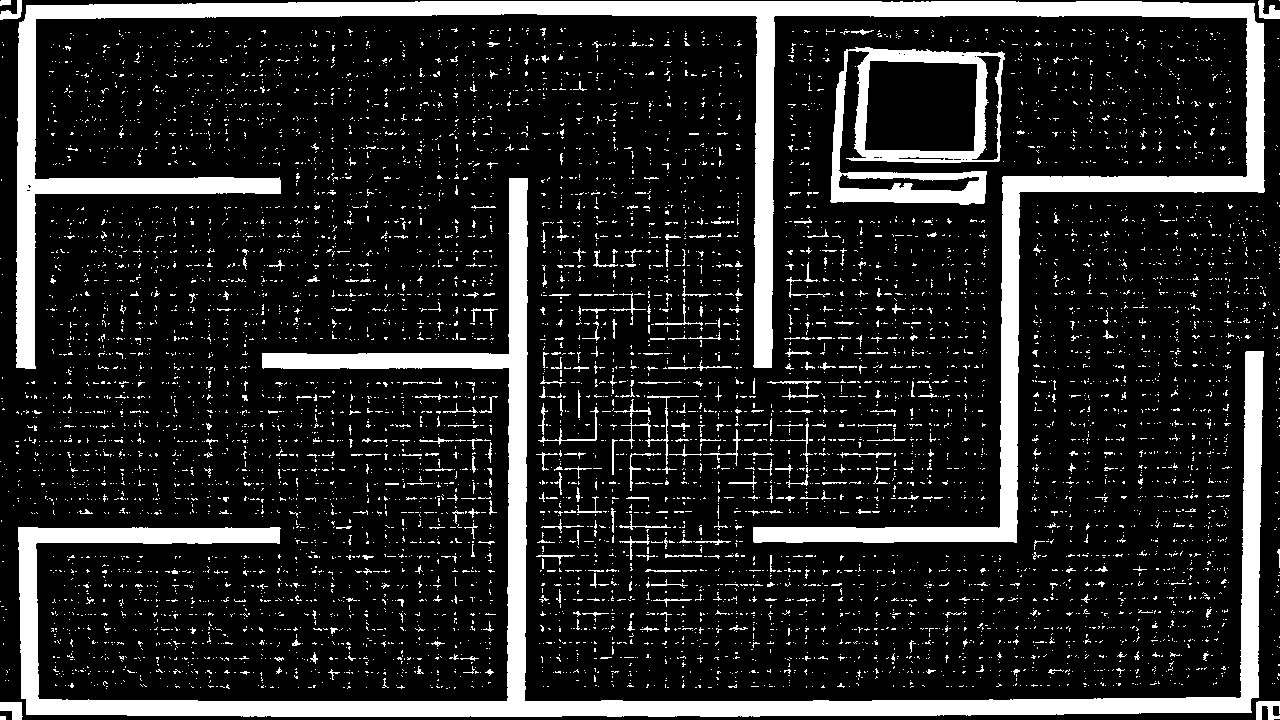
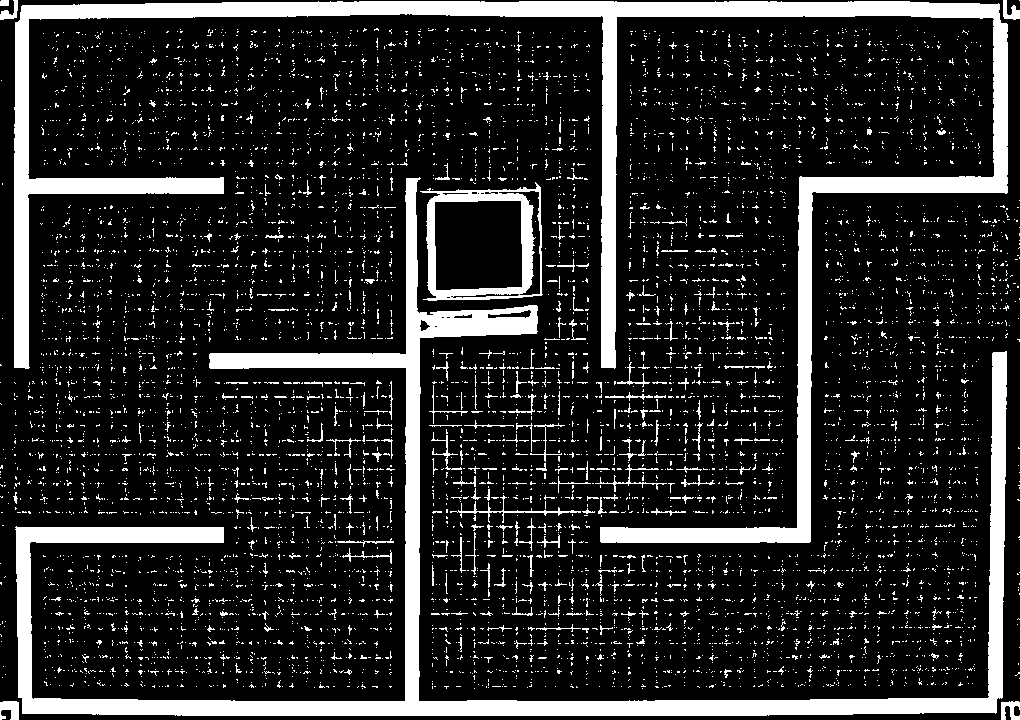
General update

diff --git a/vision/vision_utils.py b/vision/vision_utils.py
@@ -159,5 +159,5 @@ def calibrate_corners(cam):
 
 # Do adaptive thresholding for weird images
 def do_adaptive_threshold(img):
-  th = cv.adaptiveThreshold(img,255,cv.ADAPTIVE_THRESH_GAUSSIAN_C, cv.THRESH_BINARY_INV,31,2)
+  th = cv.adaptiveThreshold(img,255,cv.ADAPTIVE_THRESH_GAUSSIAN_C, cv.THRESH_BINARY,31,2)
   return th

diff --git a/main_script.py b/main_script.py
@@ -53,7 +53,7 @@ if M is not None:
   ret_val, img = cam.read()
   dst = crop_labyrinth(img, M)
   dst_gray = cv.cvtColor(dst, cv.COLOR_BGR2GRAY)
-  labyrinth_map = detect_labyrinth(dst_gray, (200,130))
+  labyrinth_map = detect_labyrinth(dst_gray, (150,140))
   initial_center = None
   
   while initial_center is None:  
